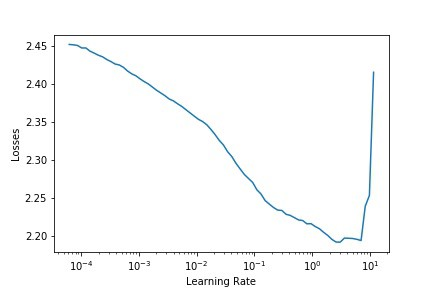
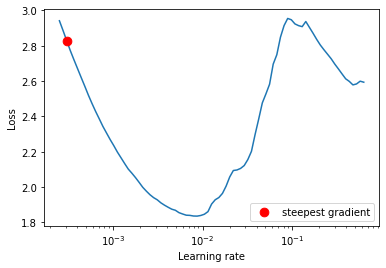
[update README --F]

diff --git a/S9/README.md b/S9/README.md
@@ -1,5 +1,4 @@
 ## S9 - Resnet and Higher Receptive Fields
-&nbsp;
 ### `Objective: Devise a custom ResNet architecture for CIFAR-10 (the details of which is shown in the figure below), and use One Cycle Policy (with no annealation) to train the model for 24 epochs.`
 
 &nbsp;
@@ -17,7 +16,7 @@
 &nbsp;
 
 ## Model Description
-The model architecture shown below details the sequence of layers / operations. One may note that the model uses two residual connections (Block 1 and Block 3) and rest are regular convolutions. Another observation could be that the MaxPool is located very near the output (one convolution away from the output Softmax layer, and yet the accuracy achieved is pretty good ~ 95%).
+The model architecture shown below details the sequence of layers / operations. One may note that the model uses two residual connections (Block 1 and Block 3) and rest are regular convolutions. Another observation could be that the MaxPool is located very near the output (one convolution away from the output Softmax layer, and yet the accuracy achieved is pretty good ~ 93%).
 
     https://github.com/eva7wandb/Eva7_Weights_Heist/blob/main/S9/README.md
 
@@ -35,7 +34,7 @@ The model architecture shown below details the sequence of layers / operations. 
 ## Learning Rate
 Leslie Smith's [paper](https://arxiv.org/pdf/1506.01186.pdf) suggested a quick and an easy approach to tune the learning rate hyper-parameter while training, for a given dataset (here, CIFAR10) and model parameters, and rest of the hyper-parameters such as batch size and iterations.
 
-To begin with, we conduct a learning rate range test, i.e. monotonously increasing learning rate in a given range with respect to each iteration of training samples of any specific fixed batch size. In our case, we set the initial learning rate to a very small value (1e-6) and with a set batch_size of 512 samples. 
+To begin with, we conduct a learning rate range test, i.e. monotonously increasing learning rate in a given range with respect to each iteration of training samples of any specific fixed batch size. In our case, we set the initial learning rate to a very small value (1e-4) and with a set batch_size of 512 samples. 
 
 An iterator is defined as an infinite loop to yield random samples of batch_size. For each iteration, the learning rate is increased in steps and the previous batch of images are replaced with the current batch of images, and the process is continued till the loss value for the classification criterion shoots up. 
 
@@ -45,15 +44,119 @@ The Losses vs Learning rate (Logarithmic) graph shows that the loss decreases fi
 
 ![Loss_vs_LearningRate](./resources/lr_vs_loss.png)
 
+
 &nbsp;
 
 ## One Cycle Learning Rate (OCLR) Policy:
 
-The one cycle policy consists of two steps of equal length, with the maximum learning rate chosen from the range test (described above) corresponding to the minimum loss. The lower or the starting learning rate is chosen as 1/5th to 1/10th of maximum learning rate or as the start of the descent of the learning rate. Now, the model training is performed starting with the lower learning rate, reaching the maximum learning rate during step 1, and then decreasing the learning rate till the starting learning rate is reached. Some variations can be tried along with the OCLR, like cutting short the second step a few iterations earlier, and reducing the learning rate from the endpoint (which is same as starting point value) further for the rest of the iterations -- referred to by the term 'Annealing'. Another variant could be, having the first half of short length, i.e. learning rate is ramped up quickly from starting LR to max LR (steep slope), and decreased at slow rates to sustain the larger updates to model parameters.
+The one cycle policy consists of two steps of equal length, with the maximum learning rate chosen from the range test (described above) corresponding to the minimum loss. The lower or the starting learning rate is chosen as 1/5th to 1/10th of maximum learning rate or as the start of the descent of the learning rate. In our case, we found that the best learning rate (maximum LR) to be 0.0087, and the lower LR (corresponding to the steepest gradient) is 3.05e-4.
+
+Now, the model training is performed starting with the lower learning rate, reaching the maximum learning rate during step 1, and then decreasing the learning rate till the starting learning rate is reached. Some variations can be tried along with the OCLR, like cutting short the second step a few iterations earlier, and reducing the learning rate from the endpoint (which is same as starting point value) further for the rest of the iterations -- referred to by the term 'Annealing'. Another variant could be, having the first half of short length, i.e. learning rate is ramped up quickly from starting LR to max LR (steep slope), and decreased at slow rates to sustain the larger updates to model parameters.
 
 &nbsp;
 
 ## Training Logs
+
+```
+
+[INFO] Begin training for 24 epochs.
+
+TRAIN Epoch:0 Loss:1.1918 Batch:97 Acc:49.28: 100%|██████████| 98/98 [00:20<00:00,  4.74it/s]
+
+TEST         Loss:1.3077         Acc:60.11         [6011 / 10000]
+
+TRAIN Epoch:1 Loss:1.027 Batch:97 Acc:67.80: 100%|██████████| 98/98 [00:20<00:00,  4.67it/s] 
+
+TEST         Loss:1.1525         Acc:67.35         [6735 / 10000]
+
+TRAIN Epoch:2 Loss:0.8958 Batch:97 Acc:75.25: 100%|██████████| 98/98 [00:21<00:00,  4.52it/s]
+
+TEST         Loss:0.9657         Acc:75.00         [7500 / 10000]
+
+TRAIN Epoch:3 Loss:0.8899 Batch:97 Acc:78.86: 100%|██████████| 98/98 [00:22<00:00,  4.44it/s]
+
+TEST         Loss:0.8641         Acc:79.01         [7901 / 10000]
+
+TRAIN Epoch:4 Loss:0.8544 Batch:97 Acc:80.52: 100%|██████████| 98/98 [00:21<00:00,  4.52it/s]
+
+TEST         Loss:0.8460         Acc:79.48         [7948 / 10000]
+
+TRAIN Epoch:5 Loss:0.7655 Batch:97 Acc:83.67: 100%|██████████| 98/98 [00:21<00:00,  4.57it/s]
+
+TEST         Loss:0.7945         Acc:81.59         [8159 / 10000]
+
+TRAIN Epoch:6 Loss:0.71 Batch:97 Acc:86.06: 100%|██████████| 98/98 [00:21<00:00,  4.61it/s]  
+
+TEST         Loss:0.7110         Acc:84.50         [8450 / 10000]
+
+TRAIN Epoch:7 Loss:0.6771 Batch:97 Acc:87.69: 100%|██████████| 98/98 [00:21<00:00,  4.46it/s]
+
+TEST         Loss:0.7014         Acc:85.43         [8543 / 10000]
+
+TRAIN Epoch:8 Loss:0.5373 Batch:97 Acc:88.88: 100%|██████████| 98/98 [00:22<00:00,  4.41it/s]
+
+TEST         Loss:0.6130         Acc:88.41         [8841 / 10000]
+
+TRAIN Epoch:9 Loss:0.5551 Batch:97 Acc:90.57: 100%|██████████| 98/98 [00:23<00:00,  4.23it/s]
+
+TEST         Loss:0.6067         Acc:88.58         [8858 / 10000]
+
+TRAIN Epoch:10 Loss:0.5537 Batch:97 Acc:91.52: 100%|██████████| 98/98 [00:21<00:00,  4.46it/s]
+
+TEST         Loss:0.6033         Acc:89.02         [8902 / 10000]
+
+TRAIN Epoch:11 Loss:0.5539 Batch:97 Acc:92.14: 100%|██████████| 98/98 [00:22<00:00,  4.38it/s]
+
+TEST         Loss:0.5590         Acc:90.21         [9021 / 10000]
+
+TRAIN Epoch:12 Loss:0.5273 Batch:97 Acc:93.06: 100%|██████████| 98/98 [00:22<00:00,  4.40it/s]
+
+TEST         Loss:0.5799         Acc:89.11         [8911 / 10000]
+
+TRAIN Epoch:13 Loss:0.5053 Batch:97 Acc:94.03: 100%|██████████| 98/98 [00:22<00:00,  4.35it/s]
+
+TEST         Loss:0.6791         Acc:85.98         [8598 / 10000]
+
+TRAIN Epoch:14 Loss:0.4878 Batch:97 Acc:94.57: 100%|██████████| 98/98 [00:22<00:00,  4.39it/s]
+
+TEST         Loss:0.5876         Acc:89.50         [8950 / 10000]
+
+TRAIN Epoch:15 Loss:0.4486 Batch:97 Acc:94.98: 100%|██████████| 98/98 [00:23<00:00,  4.21it/s]
+
+TEST         Loss:0.5354         Acc:91.06         [9106 / 10000]
+
+TRAIN Epoch:16 Loss:0.3981 Batch:97 Acc:95.70: 100%|██████████| 98/98 [00:23<00:00,  4.18it/s]
+
+TEST         Loss:0.5262         Acc:91.54         [9154 / 10000]
+
+TRAIN Epoch:17 Loss:0.4019 Batch:97 Acc:96.24: 100%|██████████| 98/98 [00:23<00:00,  4.22it/s]
+
+TEST         Loss:0.5128         Acc:92.12         [9212 / 10000]
+
+TRAIN Epoch:18 Loss:0.4336 Batch:97 Acc:96.85: 100%|██████████| 98/98 [00:23<00:00,  4.19it/s]
+
+TEST         Loss:0.5073         Acc:92.16         [9216 / 10000]
+
+TRAIN Epoch:19 Loss:0.3852 Batch:97 Acc:97.22: 100%|██████████| 98/98 [00:24<00:00,  3.98it/s]
+
+TEST         Loss:0.5067         Acc:92.19         [9219 / 10000]
+
+TRAIN Epoch:20 Loss:0.3764 Batch:97 Acc:97.62: 100%|██████████| 98/98 [00:23<00:00,  4.08it/s]
+
+TEST         Loss:0.4821         Acc:92.82         [9282 / 10000]
+
+TRAIN Epoch:21 Loss:0.3584 Batch:97 Acc:97.96: 100%|██████████| 98/98 [00:24<00:00,  4.03it/s]
+
+TEST         Loss:0.4847         Acc:93.02         [9302 / 10000]
+
+TRAIN Epoch:22 Loss:0.3578 Batch:97 Acc:98.35: 100%|██████████| 98/98 [00:23<00:00,  4.12it/s]
+
+TEST         Loss:0.4746         Acc:93.16         [9316 / 10000]
+
+TRAIN Epoch:23 Loss:0.3549 Batch:97 Acc:98.63: 100%|██████████| 98/98 [00:23<00:00,  4.09it/s]
+
+TEST         Loss:0.4679         Acc:93.53         [9353 / 10000]
+```
 
 &nbsp;
 
